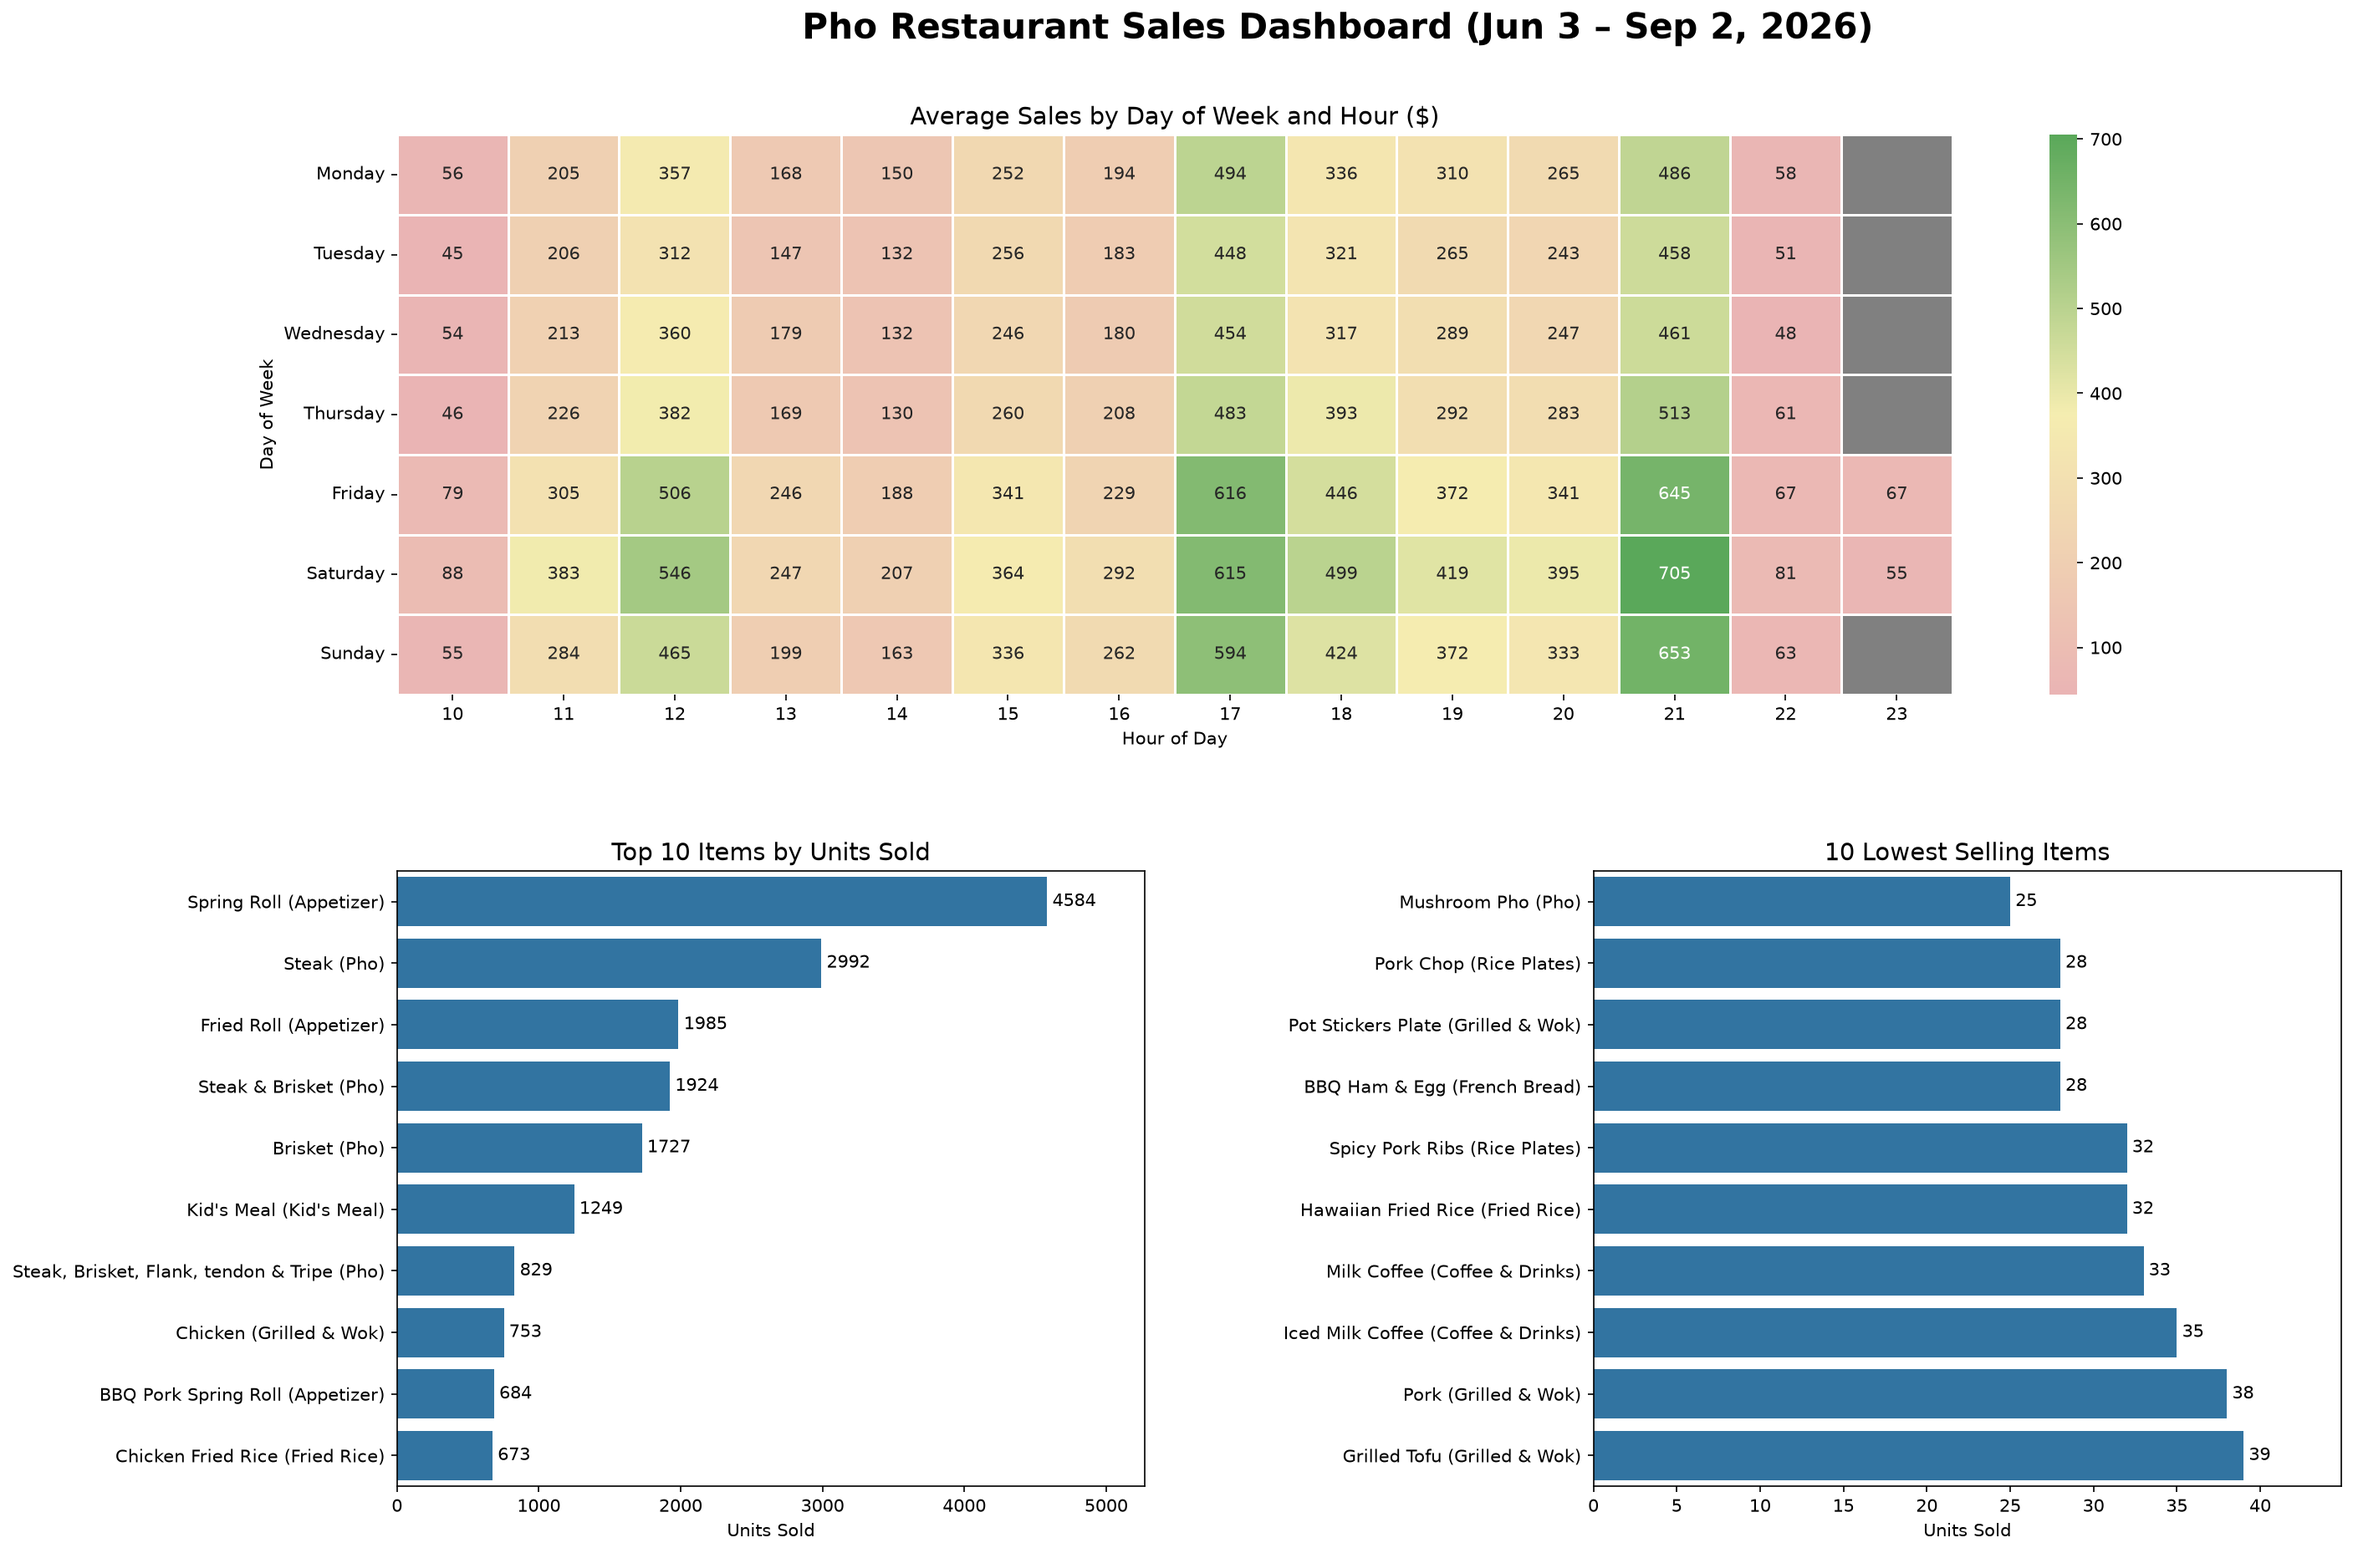
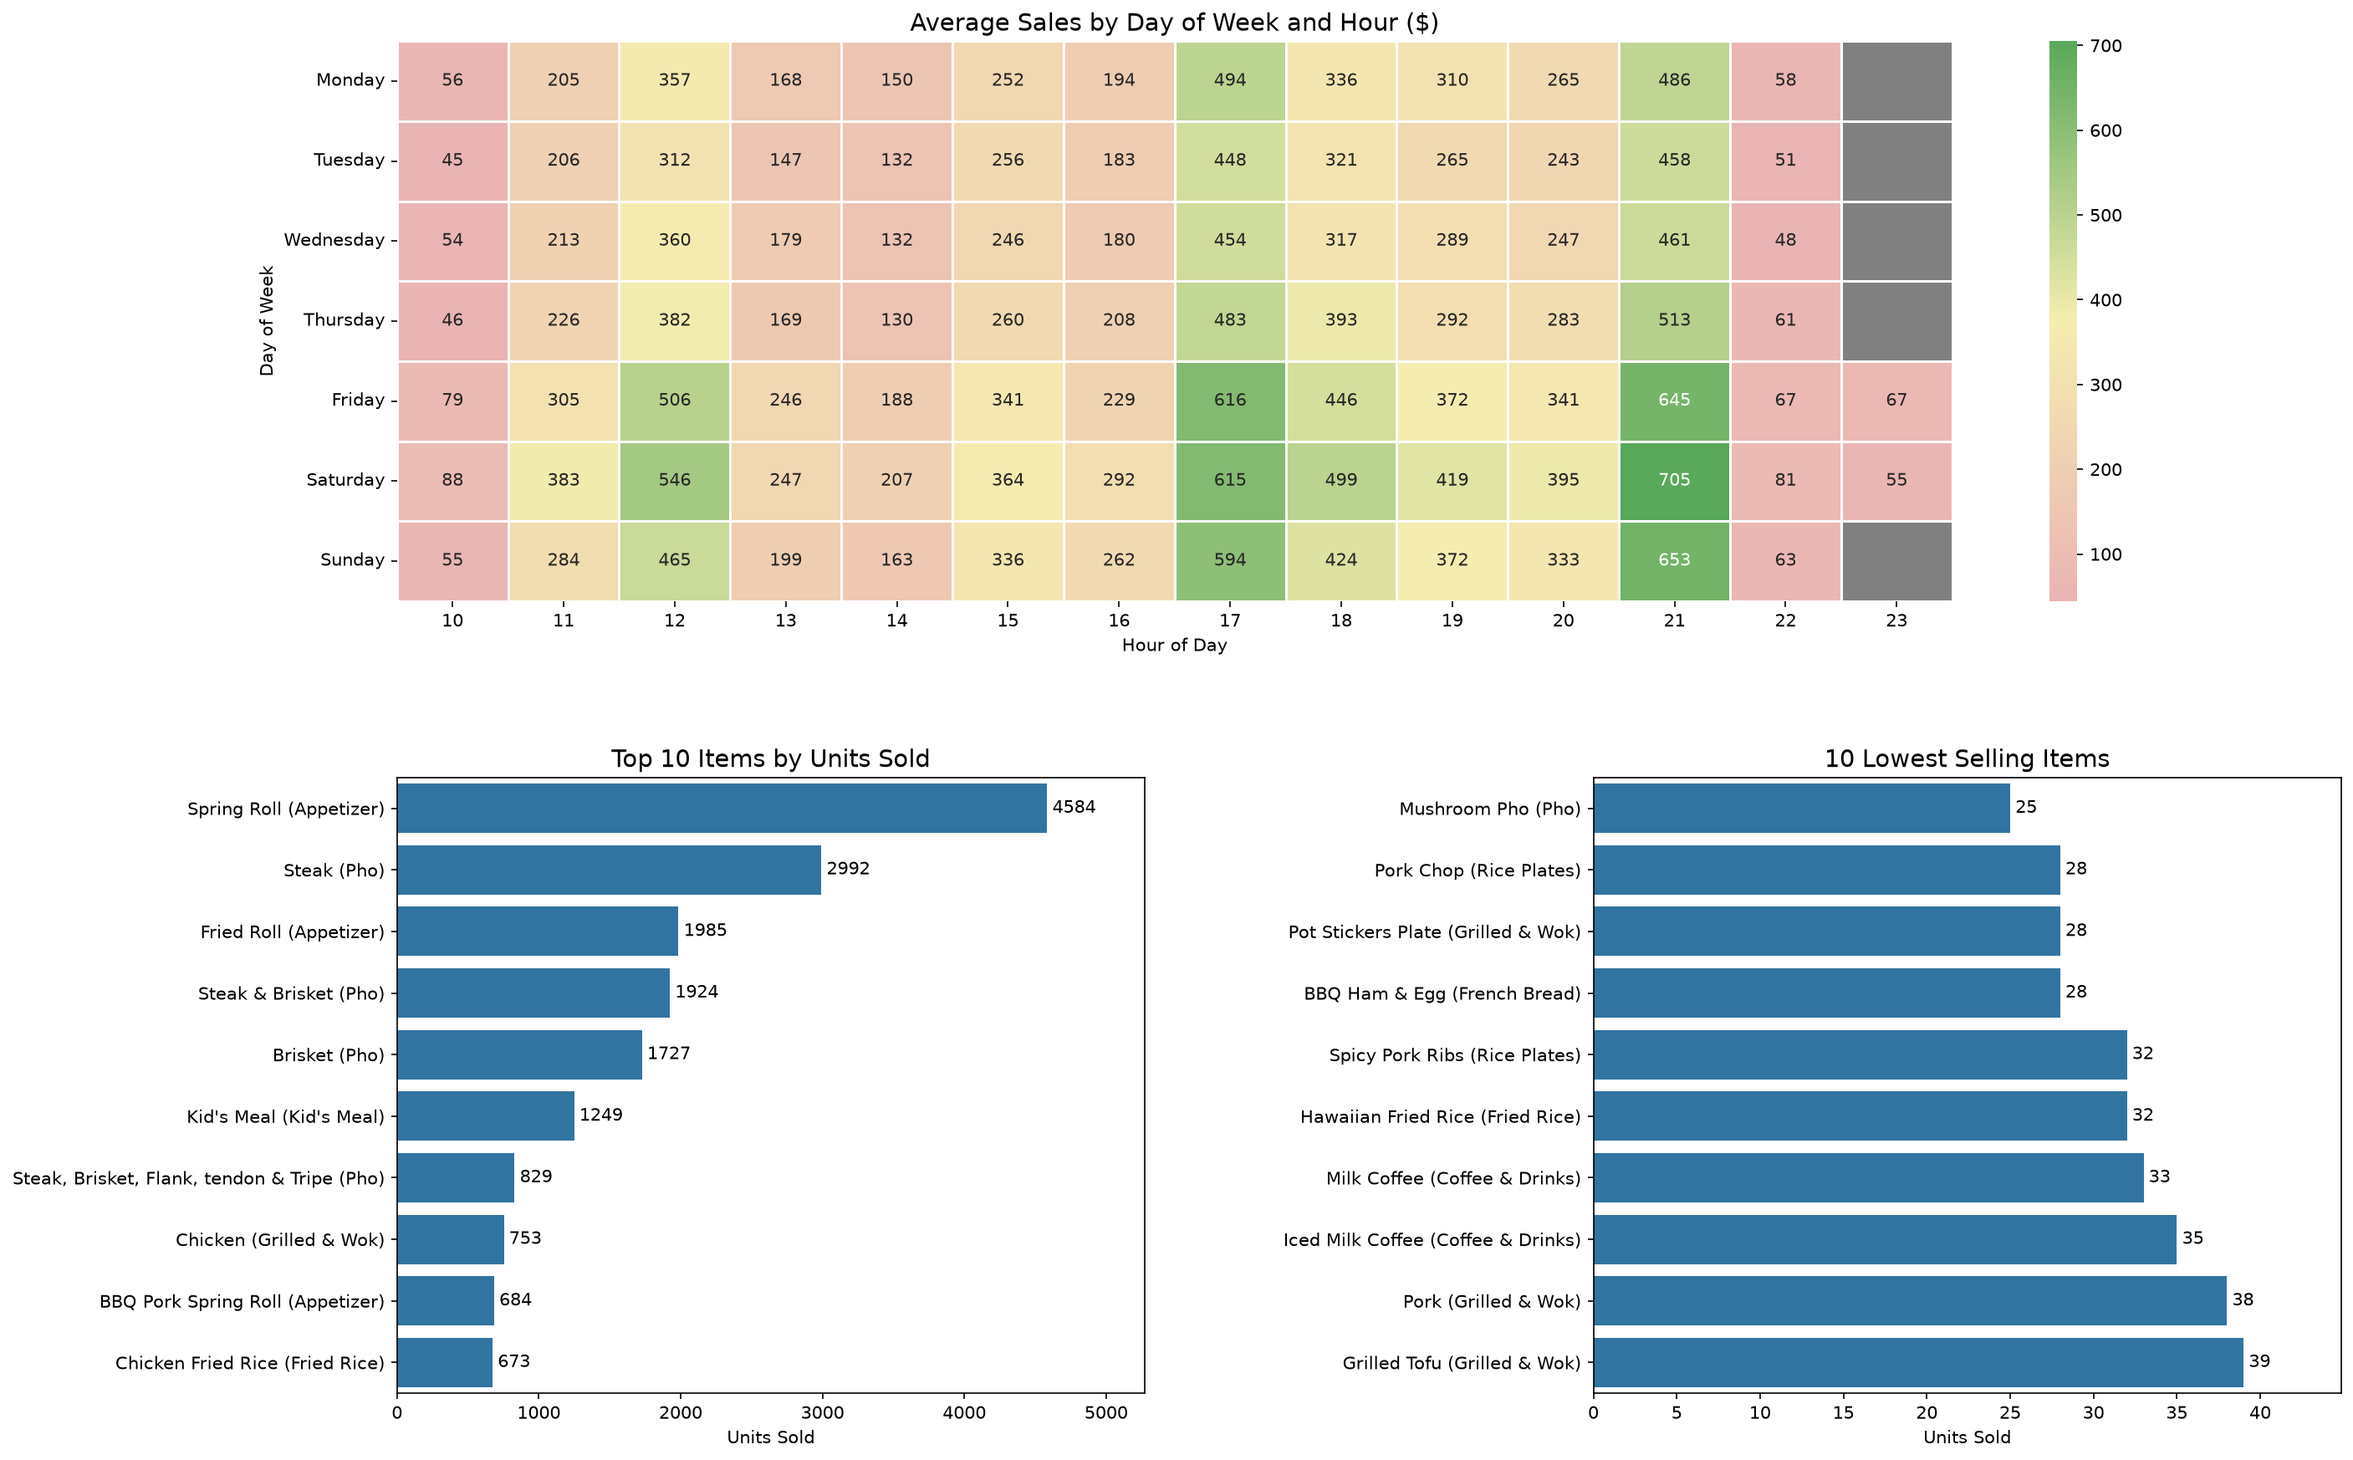
Update project photos

diff --git a/src/components/Projects.jsx b/src/components/Projects.jsx
@@ -1,21 +1,21 @@
 import Kicker from './Kicker';
 import ProjectCard from './ProjectCard';
-import shapeMapImage from '../assets/images/wa/shapemap_cropped.png';
-import heatmapImage from '../assets/images/pho/sales_heatmap.png';
+import wageChartsImage from '../assets/images/wa/wa-analyst-wage-charts.png';
+import dashboardImage from '../assets/images/pho/sales_dashboard.png';
 import { projects } from '../data/projects';
 
 const MEDIA = {
   'wa-labor-cost': (
     <img
-      src={shapeMapImage}
-      alt="Power BI Shape Map of Washington labor market areas shaded by average analyst pay"
+      src={wageChartsImage}
+      alt="Power BI dashboard with a Washington wage map, annual analyst wage by area, and analyst cost vs. talent pool size"
       className="h-full w-full object-cover"
     />
   ),
   'pho-restaurant-analysis': (
     <img
-      src={heatmapImage}
-      alt="Average sales by day of week and hour for the pho restaurant analysis"
+      src={dashboardImage}
+      alt="Pho restaurant sales dashboard with a day-by-hour sales heatmap and the top and bottom selling items"
       className="h-full w-full object-cover"
     />
   ),
